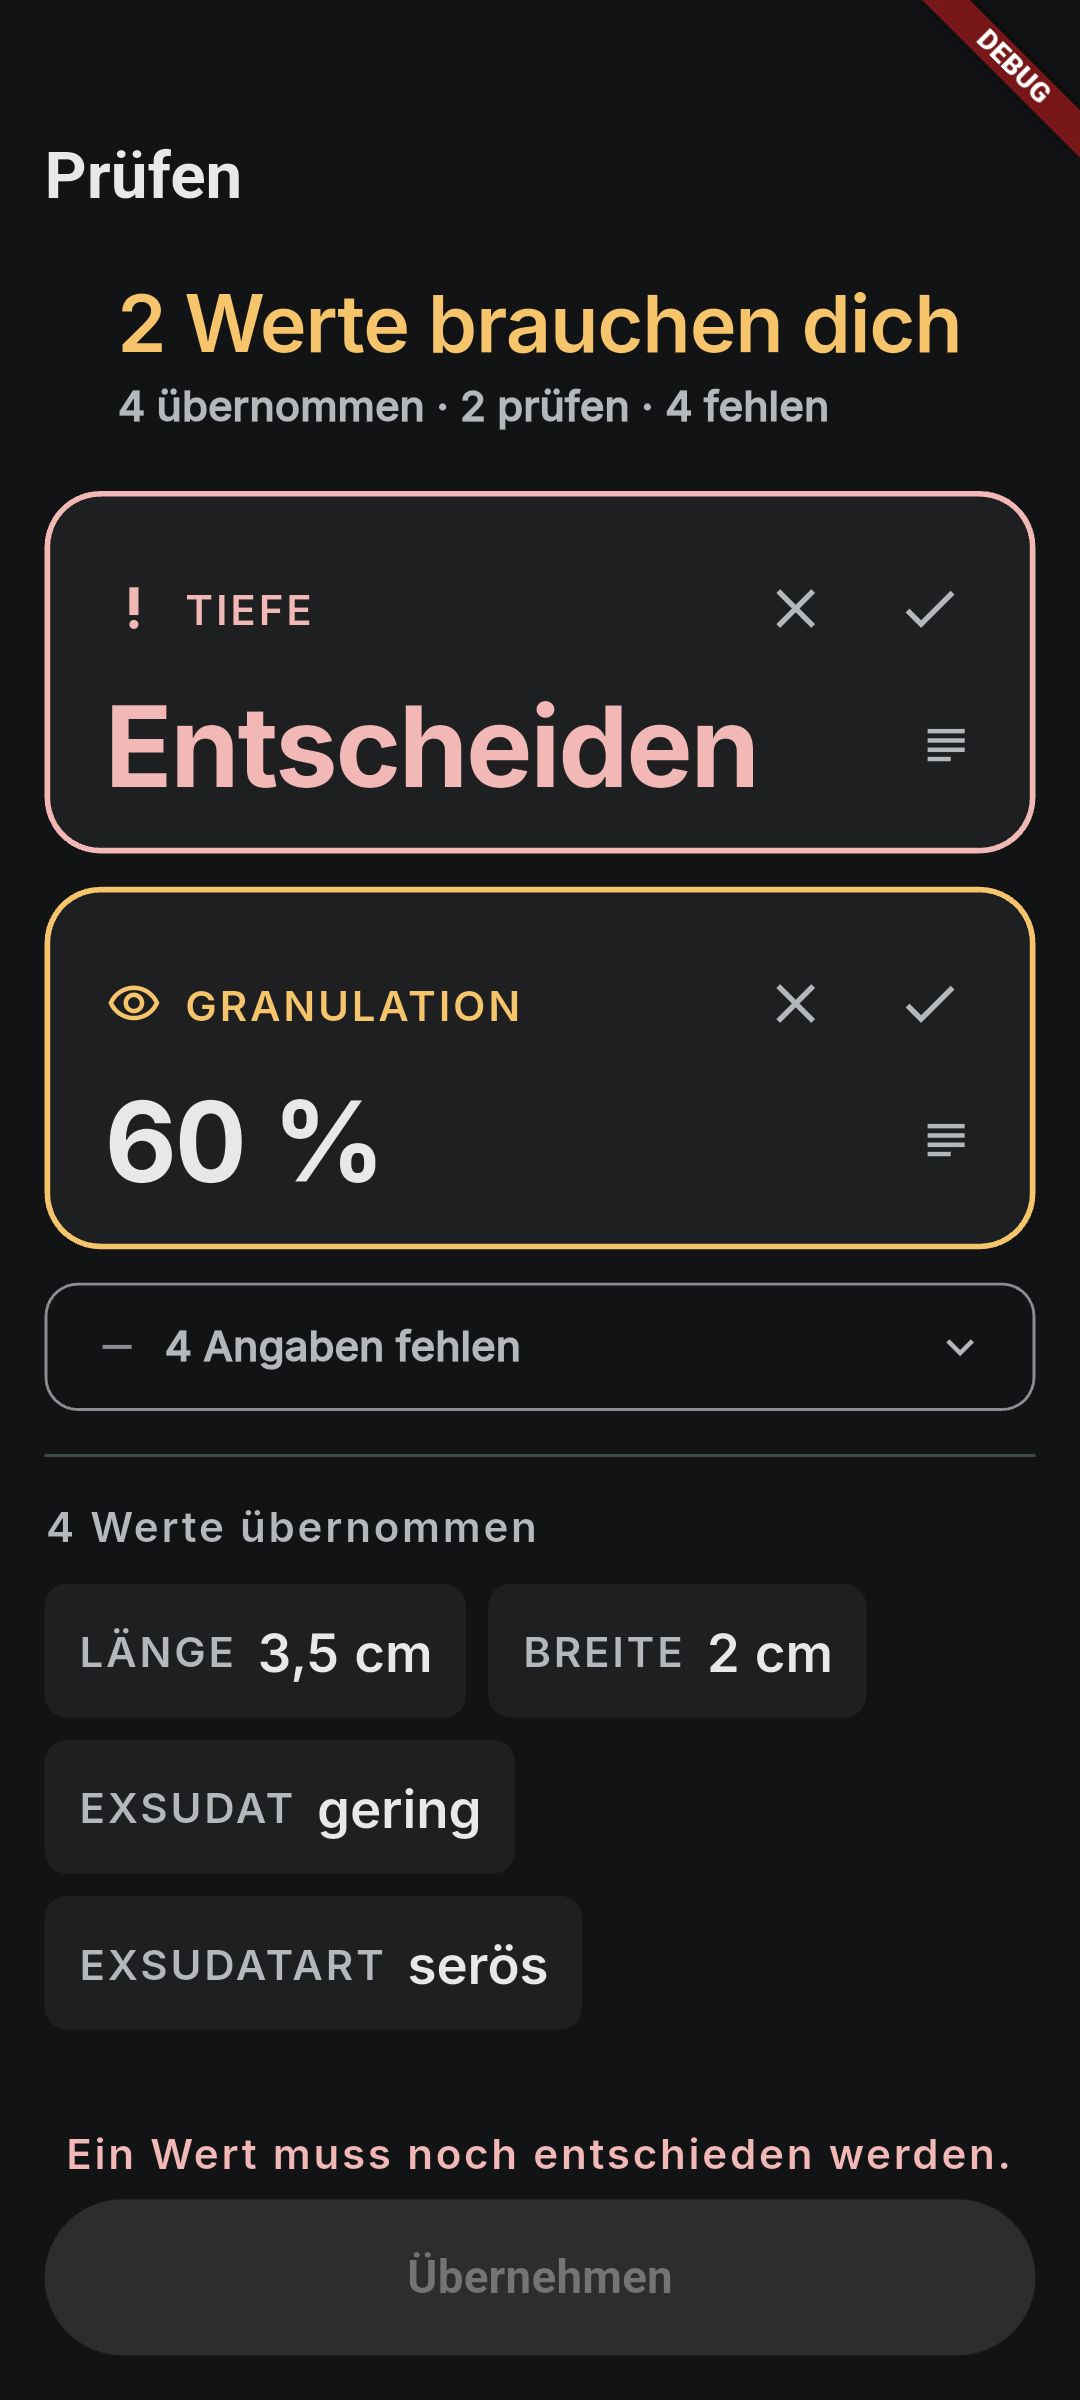
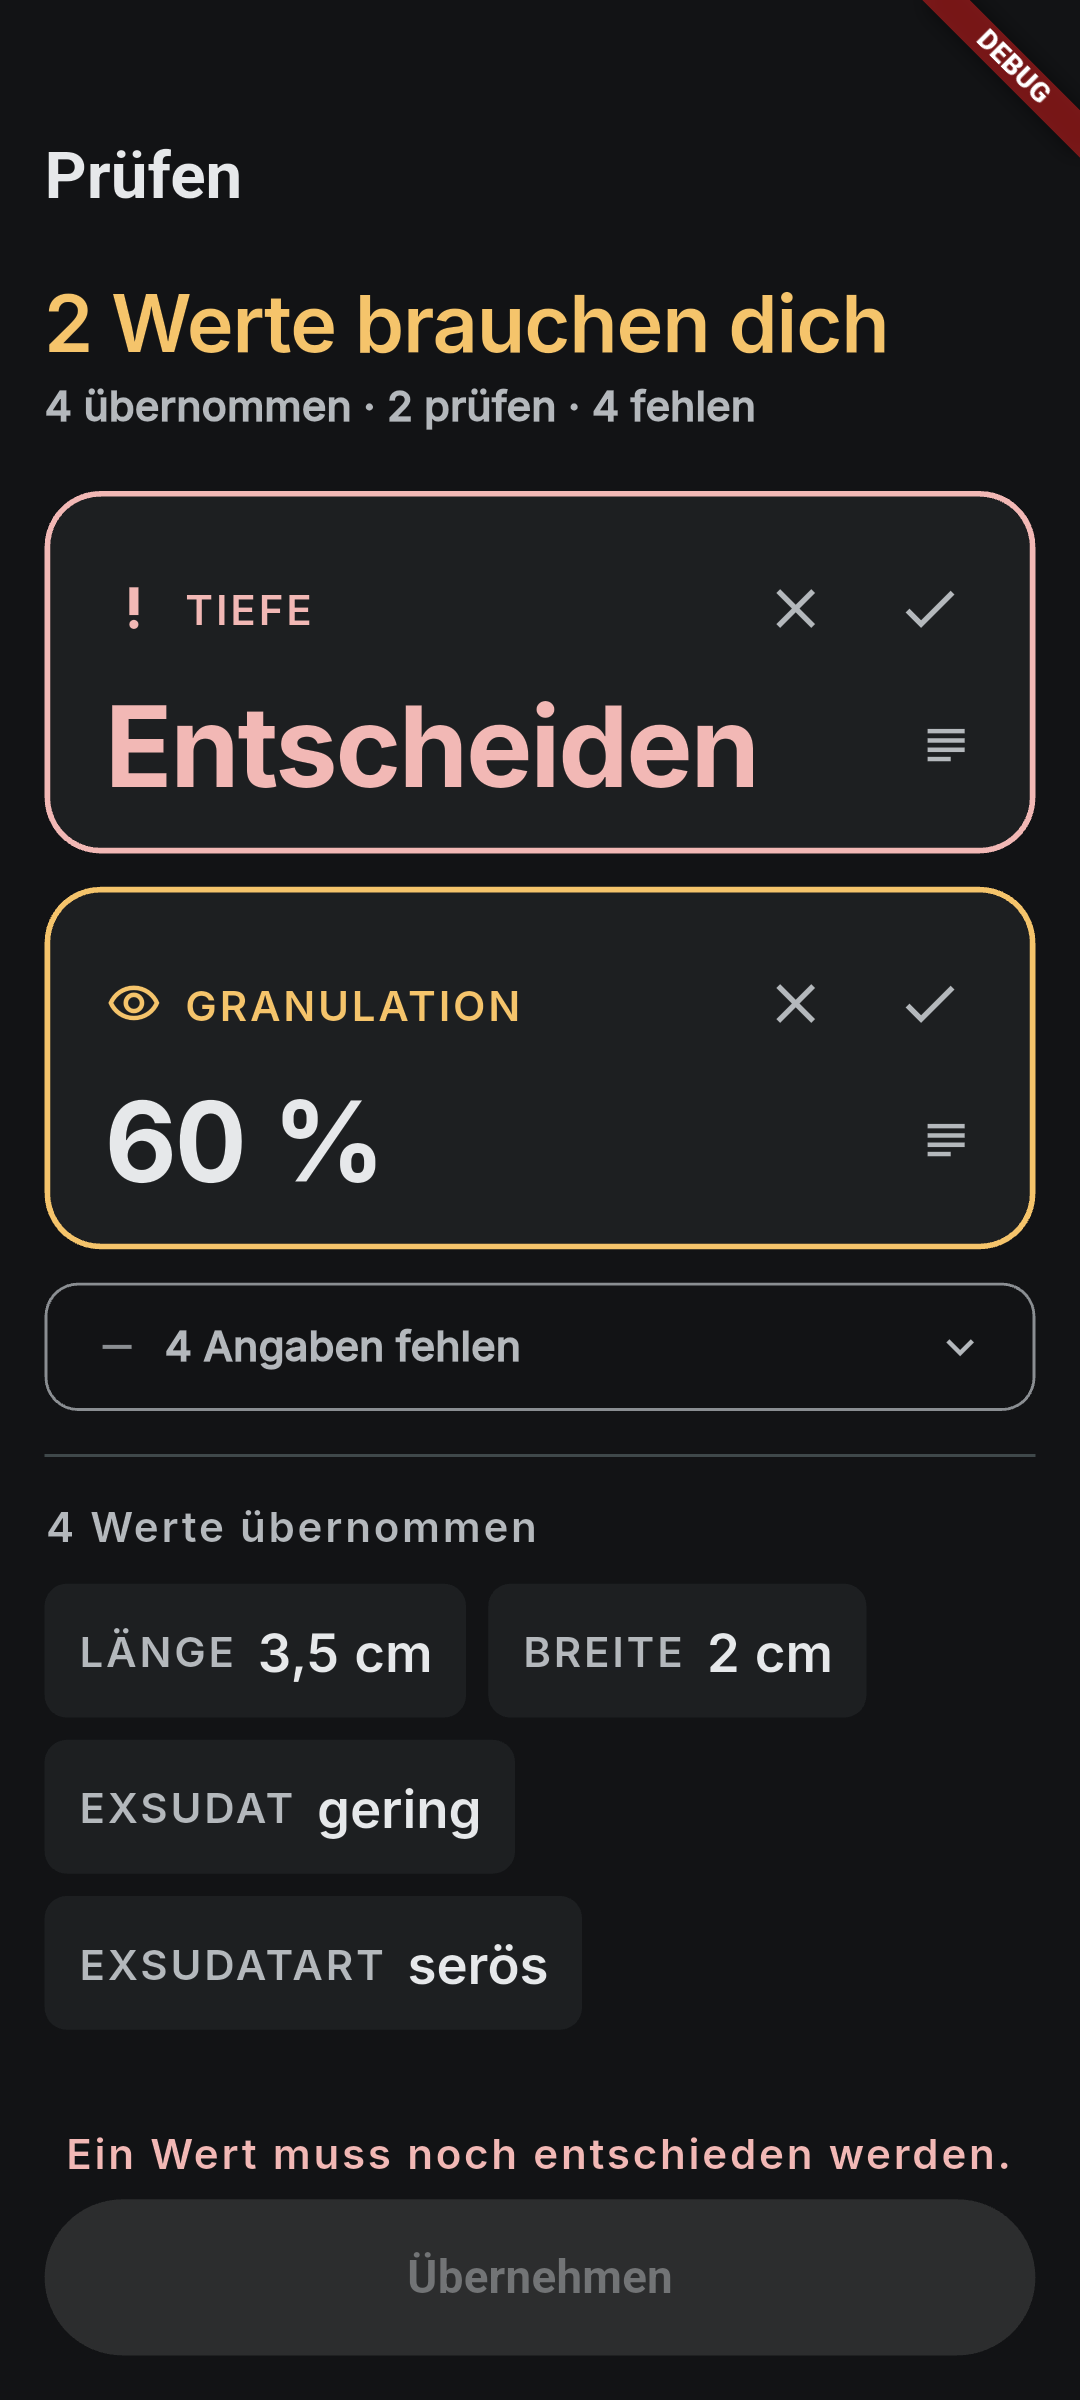
docs: font comparison shots and updated type spec
Claude-Session: https://claude.ai/code/session_01EYeVCRBm19sn3DCHQvrBqP

Changed region(s): [[0.0306, 0.125, 0.8861, 0.1875]]

diff --git a/lib/shared/theme/app_theme.dart b/lib/shared/theme/app_theme.dart
@@ -17,7 +17,7 @@ abstract final class AppTheme {
   ///
   /// Swapped in one place while the two candidates are being compared on the
   /// device; see `DECISIONS.md`.
-  static AppFontFamily font = AppFontFamily.geist;
+  static AppFontFamily font = AppFontFamily.inter;
 
   static ThemeData light() => _build(
     brightness: Brightness.light,

diff --git a/docs/ux/tokens.md b/docs/ux/tokens.md
@@ -84,23 +84,29 @@ müssen untereinander stehen), großer Gewichtsumfang für Größenkontrast ohne
 Familie, saubere Umlaute, und die Datei muss **mitgeliefert** werden — eine Schrift,
 die zur Laufzeit nachgeladen wird, funktioniert weder offline noch datenschutzfrei.
 
-Eine Familie, differenziert über Gewicht und Größe. Die konkrete Familie läuft über
-`/eps:technikwahl` (Kriterien: Lizenz für Kundensoftware, variabler Schnitt,
-`tnum`-Feature, Dateigröße).
+Eine Familie, differenziert über Gewicht und Größe. Beide Kandidaten sind variable
+Schriften unter OFL-1.1 und tragen `tnum`; die Wahl steht in `DECISIONS.md`.
 
 | Rolle | Größe | Zeilenhöhe | Schnitt | Wofür |
 |---|---|---|---|---|
-| display | 40 | 1.10 | 700 | Messwert, groß, mit `tnum` |
-| headline | 28 | 1.20 | 600 | Screentitel |
+| display | 40 | 1.05 | 700, `tnum` | Messwert in der Bestätigungszeile |
+| headline | 28 | 1.15 | 600 | Anker am Kopf, Screentitel |
 | title | 20 | 1.30 | 600 | Kartenüberschrift |
 | body | 17 | 1.45 | 400 | Fließtext, Transkript |
-| bodyStrong | 17 | 1.45 | 600 | erkannter Wert in der Bestätigungszeile |
-| label | 13 | 1.30 | 500 | Feldbezeichnung, Einheiten |
+| bodyStrong | 17 | 1.45 | 600, `tnum` | Wert in der kompakten Zeile |
+| label | 13 | 1.20 | 600, Versalien, +1,0 Laufweite | Feldbezeichnung |
+| labelPlain | 13 | 1.30 | 500 | Nebenangaben |
 
 - **Skalenverhältnis:** ~1,25 (Major Third), von 13 aufwärts gerundet auf ganze Punkte
 - **Familien:** eine
 - **Größenkontrast display zu label: Faktor 3.** Das ist die Hierarchie — der Wert
   wird gelesen, die Bezeichnung nur bei Bedarf.
+- **Feldbezeichnungen in Versalien mit offener Laufweite.** Bei 13 px liest sich das
+  als Instrumentenbeschriftung statt als kleiner Fließtext, und die Bezeichnung
+  konkurriert nicht mit dem Wert darüber.
+- **Gewichte über `FontVariation`**, nicht über `FontWeight` allein: bei einer
+  variablen Schrift unter einer Familie würde Flutter sonst den Fettschnitt
+  synthetisieren statt die echte Achse zu benutzen.
 - **Prüfung bei 200 %:** Zeilen brechen um statt abzuschneiden; keine feste Höhe an
   textführenden Behältern; geprüft auf 320 dp Breite
 
